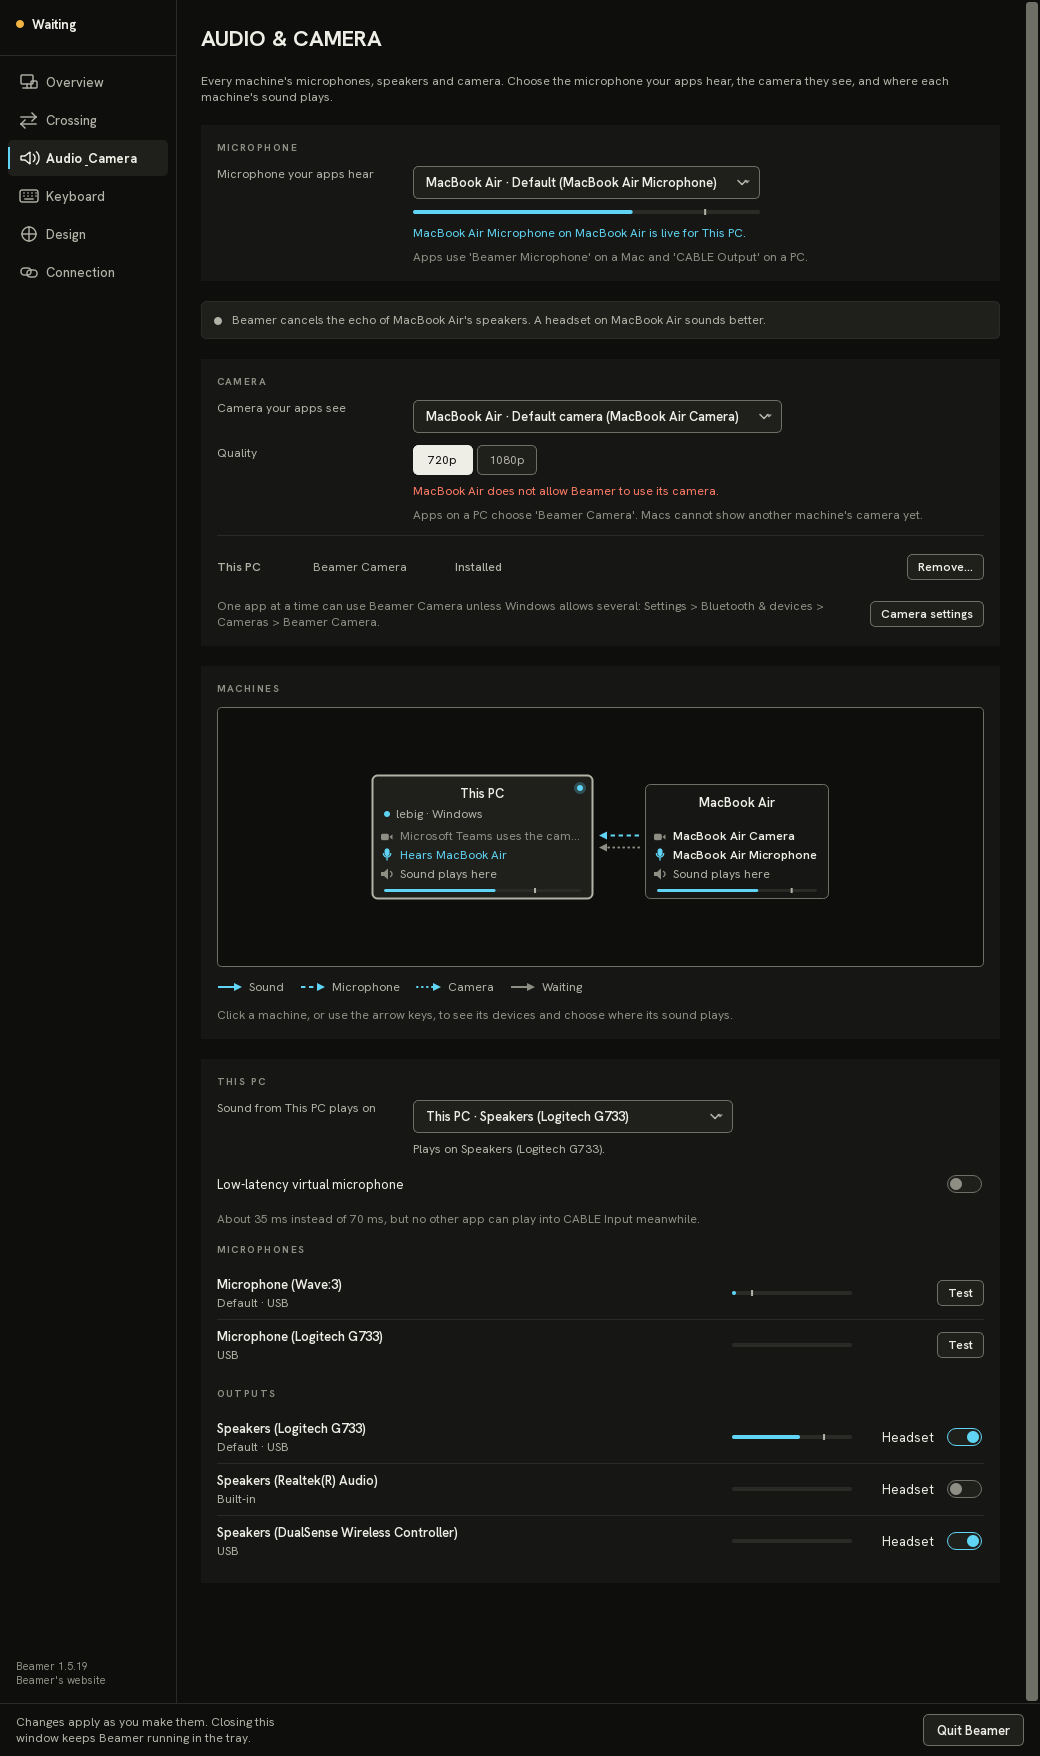
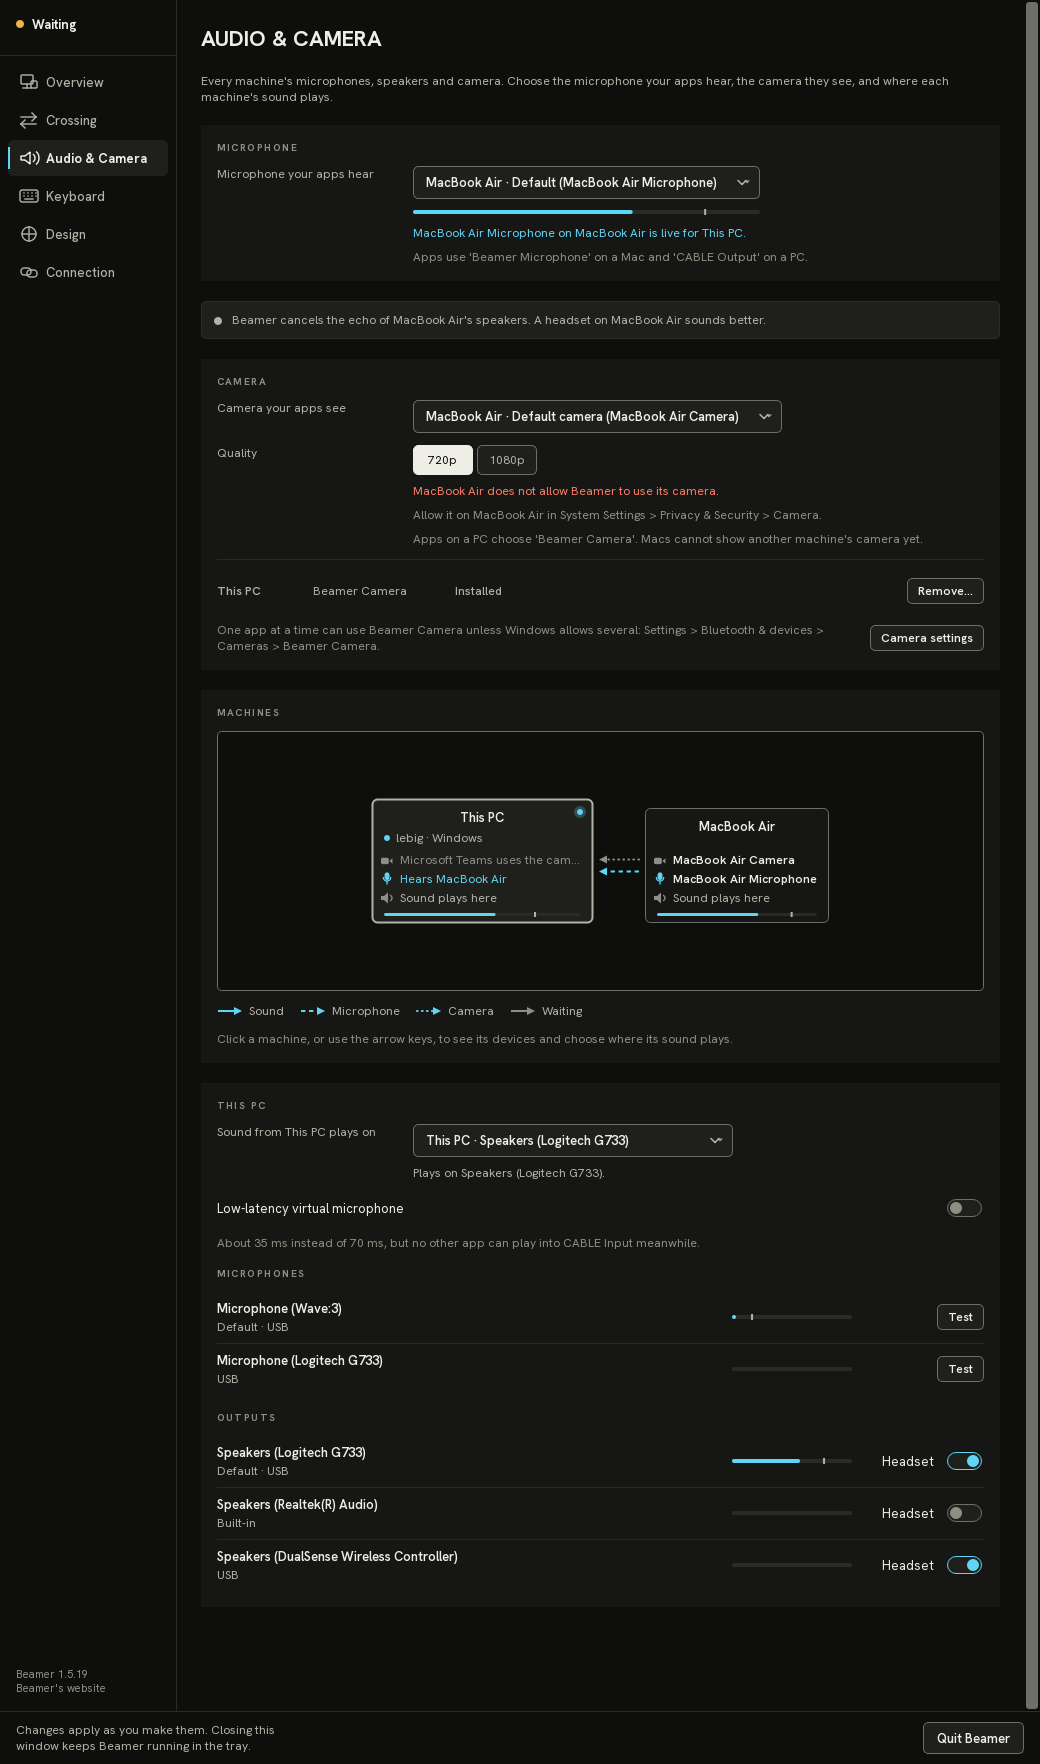
Camera Q1: PC engine tests, build, Qt suite, denied shots re-rendered
Engine 65 cases / 0 failures, build-win exit 0, Qt suite 4341 tests with the
7 known environmental failures plus 2 caused by the built helper in the export
(test hermeticity, described in q1.md). CW8 denied shots re-rendered with P1's
System Settings line.

diff --git a/dev/camera/reports/q1.md b/dev/camera/reports/q1.md
@@ -1,0 +1,103 @@
+# Q1 report: PC-side checks with no live stream
+
+Ran on 2026-11-12 on lebig, in a private export of `bbddd1e` (`git archive bbddd1e | ssh lebig ... tar -xf -`, extracted into
+`C:\Users\Alex\camera-q1\src`, with no `._` files). Python: the PC clone's `win_app\.venv\Scripts\python.exe`, read only.
+Nothing was deployed, installed or restarted. The installed Beamer and the "Beamer Camera" virtual camera were
+not touched, and the PC clone was not modified. `C:\Users\Alex\camera-q1` was removed at the end (`Test-Path` -> `False`).
+
+## Results
+| # | Check | Result |
+|---|---|---|
+| 1 | Engine tests `native\audio\engine\build-tests.cmd run` | **PASS**: `65 cases, 3111 checks, 0 failures`, exit 0 (65 `[ ok  ]` of 65 `[ run ]`, the 10 `sync_*` cases included) |
+| 2 | `native\audio\build-win.cmd` | **PASS**: exit 0; builds `beamer-audio.exe`, `backend_check.exe`, `video_check.exe`, `camera\BeamerCameraSource.dll`, `camprobe.exe`, `feeder.exe`, `shmfuzz.exe` |
+| 3 | Qt suite `python -m unittest discover -s tests` in `win_app` (offscreen) | **PASS under the known-failure rules**: `Ran 4341 tests in 1213.301s`, `FAILED (failures=3, errors=6, skipped=125)`. That is the 7 known environmental failures plus 2 that only fail because step 2 built a helper in the export (below). No failure in the camera files. |
+| 4 | Re-render CW8 `denied`, light + dark | **DONE**: both copied over `dev/camera/reports/cw8-shots/`. They show the System Settings line and the "Audio & Camera" sidebar (below). |
+| 5 | Cleanup | **DONE**: `cmd /c rmdir /s /q C:\Users\Alex\camera-q1`, `Test-Path` -> `False` |
+
+## Commands (from the Mac; each `.cmd` was scp'd to `C:\Users\Alex\camera-q1\` and run with `ssh lebig 'cmd /c <file>'`)
+```
+git archive bbddd1e | ssh lebig 'Set-Location C:\Users\Alex\camera-q1\src; tar -xf -'
+eng.cmd:    cd /d C:\Users\Alex\camera-q1\src
+            call native\audio\engine\build-tests.cmd run   > eng.log 2>&1
+            call native\audio\build-win.cmd                > win.log 2>&1
+qt.cmd:     set QT_QPA_PLATFORM=offscreen
+            cd /d C:\Users\Alex\camera-q1\src\win_app
+            C:\Users\Alex\Developer\beamer\win_app\.venv\Scripts\python.exe -m unittest discover -s tests > qt.log 2>&1
+render.cmd: set QT_QPA_PLATFORM=offscreen
+            cd /d C:\Users\Alex\camera-q1\src
+            <venv python> win_app\tests\test_camera_section_win.py --render C:\Users\Alex\camera-q1\shots denied
+```
+Steps ran one after another (the Qt suite started only after the builds finished), so the timing-sensitive tests did not compete for CPU.
+
+## 1. Engine tests
+`65 cases, 3111 checks, 0 failures`. The counts match the Mac's CW10 run (`dev/camera/reports/cw10.md`: 31 audio + 24
+video + 10 sync). From the sync cases: `sync_e2e_hold`: hold 39.9 ms, audio 98.9 ms, video 98.1 ms, skew 0.0 ms, path 60.0 ms,
+D 50.0 ms.
+The build printed one compiler warning, `native\audio\tests\engine_tests.cpp(681): warning C4456` (`o` shadows a
+local). This code comes from `e48cd5d` (clock estimate, on `feat/audio`, before the camera work), so it is **not new**.
+
+## 2. build-win.cmd
+Exit 0. Sizes: `beamer-audio.exe` 1,699,328 bytes, `BeamerCameraSource.dll` 279,552 bytes (imports MFPlat, ole32,
+ADVAPI32, KERNEL32), `camprobe.exe` 280,064 bytes. The only warning was
+`third_party\monocypher-4.0.2\src\monocypher.c(881): warning C4244` (u64 -> u32). That file is vendored code from
+`93e6c55` and has not changed since, so this warning is **not new**. The camera, video and helper sources compiled with no warnings.
+
+## 3. Qt suite
+The suite reported 9 failures and errors:
+
+| Test | Kind | Verdict |
+|---|---|---|
+| `test_admin_mode`, `test_admin_mode_ui` (import) | error x2 | known environmental (`dev/README.md`, CW8) |
+| `core.tests.test_profiles_migration` `test_153_*` | error x2 | known environmental |
+| `core.tests.test_tile_resize` `test_old_picture_readers_...` (be9661d1, 2dbe44ab) | error x2 | known environmental |
+| `test_capture_win.LayoutTests.test_a_shifted_digit_gives_the_symbol_the_layout_prints` | fail | known environmental |
+| `test_audio_page_win.InTheWindow.test_the_page_finds_the_service_when_the_app_has_one` | fail | **caused by the export having a built helper** (see below) |
+| `test_i18n_pages.LocalisedPages.test_every_settings_page_and_pairing_sheet_use_pseudo_localised_text` | fail | **caused by the export having a built helper**. It also shows a latent check issue, described below |
+
+CW8's two non-environmental failures no longer appear: `test_catalogues_are_current_and_complete` passes now
+that `bbddd1e` extracted the locales, and `test_no_hard_coded_user_visible_strings` (`vcam_install.py:91`) passes too.
+`test_camera_section_win` passes in full, including P1's
+`Geometry.test_lanes_run_camera_mic_sound_only_with_a_camera_arrow`. The P1 lane change
+(`ARROW_LANES = ("camera", "mic", "sound")`, `win_app/camera_section_win.py:57`) shows in the render: the dotted
+camera arrow sits above the mic arrow, in the same order as the tile's lines.
+
+### Why the two new failures happen
+`core/audio/helper.py:locate()` (lines 70-90), when run from source, falls back to
+`<repo>/native/audio/build/win/beamer-audio.exe`. Step 2 put that file in the export, so `InTheWindow` and
+`LocalisedPages` started a **real** `AudioService`. In the first test, `page.service` is then an `AudioService`
+instead of `None` (`test_audio_page_win.py:458`). In the second, the audio map gets real tiles, and their accessible description fails the
+pseudo-localisation check. CW8's run had no build output in its export, so these tests passed there.
+
+Isolation proof (same export, `win_app\tests` as cwd, both tests run together):
+- with `build\win\beamer-audio.exe` present: `Ran 4 tests`, `FAILED (failures=2)`, the same two assertions;
+- with it renamed aside: `Ran 4 tests`, `OK`.
+
+The test-spawned helper did not keep running afterwards: only the installed `C:\Users\Alex\AppData\Local\Beamer\beamer-audio.exe`
+was running when I checked.
+
+Defects (not fixed, not camera code):
+1. **Test hermeticity** (`win_app/tests/test_audio_page_win.py` `InTheWindow`, `win_app/tests/test_i18n_pages.py`
+   `LocalisedPages`). These tests assume that no helper exists, but `helper.locate()` finds the repo's build output. As a result,
+   the suite fails on any checkout where `build-win.cmd` has run, and it starts a real helper from a unit test. Proposed fix:
+   in those `setUp`s (or in a shared test base), patch `core.audio.helper.locate` to return `None`, or set
+   `BEAMER_AUDIO_HELPER` to a missing path *and* make `locate` skip the repo fallback when the variable is set.
+   The simplest option is `mock.patch("core.audio.helper.locate", return_value=None)`.
+2. **Accessible description built by concatenation** (`core/audio/view.py:662`, `parts.append(output_line + ".")`, from
+   `620cfa1` on the audio branch; `core/audio/view.py:871` `watching + "."` for the camera follows the same pattern).
+   The sentence's final "." is added outside `tr()`, so the whole string ends with "." after "⟧". With real tiles, the
+   pseudo-locale check flags `audio: AudioMap.accessibleDescription: ⟦⟦This PC⟧, ⟦Online⟧.⟧ ⟦Sound plays here⟧.`.
+   This is minor: a translation cannot move or change that full stop. Proposed fix: either
+   `tr("{line}.").format(line=output_line)` (and the same for `watching`), or make the test strip trailing
+   punctuation before its `endswith("⟧")` check. The first fixes the translation issue as well.
+
+## 4. Denied shots
+I re-rendered `camera-denied-light.png` and `camera-denied-dark.png` (1040x1764; CW8's were 1040x1756, and the extra 8 px are the new
+detail line) and checked them by eye:
+- status line (red): "MacBook Air does not allow Beamer to use its camera.";
+- detail line: "**Allow it on MacBook Air in System Settings > Privacy & Security > Camera.**" (P1's wording,
+  points to macOS System Settings, not to Beamer);
+- sidebar: "**Audio & Camera**" (the CW8 "Audio_Camera" mnemonic issue is fixed by `59a2bfd`); heading "AUDIO & CAMERA";
+- map: the dotted camera arrow is above the dashed mic arrow (P1 lanes).
+
+Cosmetic, not new, no action proposed: the "This PC" tile truncates "Microsoft Teams uses the cam…" at that tile width. Qt warned that it
+found no font directory in the venv (`QFontDatabase: Cannot find font directory`), which is the same environment as CW8.
